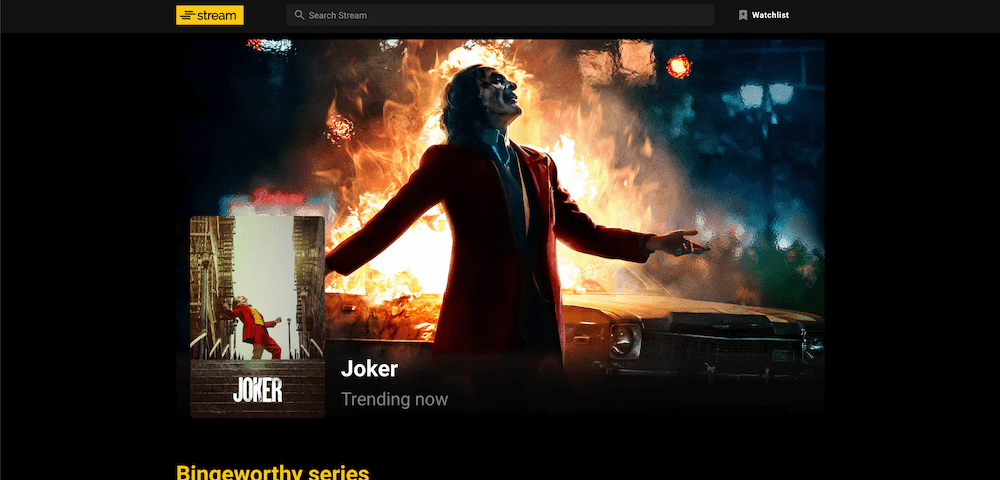
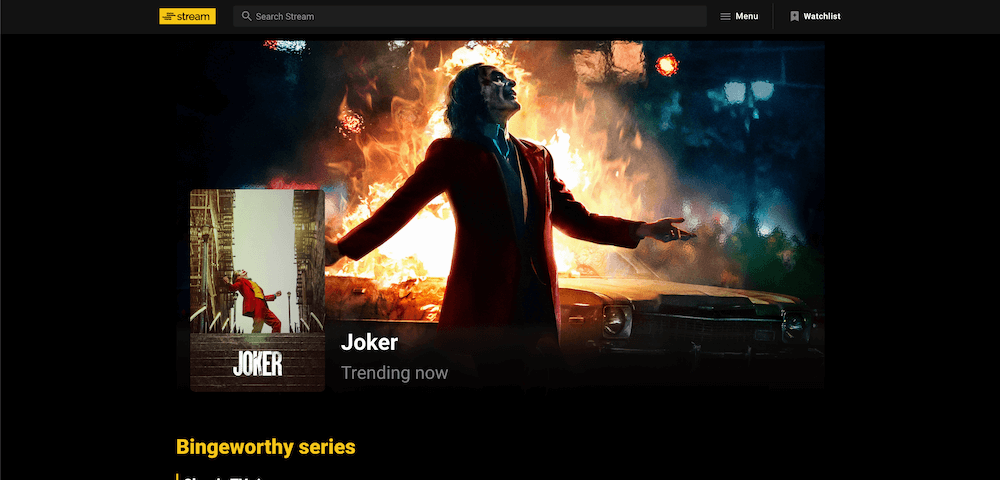
Minor styling changes and updating screenshots

Changed region(s): [[0.155, 0.0, 0.837, 0.875], [0.155, 0.9062, 0.372, 1.0], [0.713, 0.0, 0.837, 0.0625]]

diff --git a/public/index.html b/public/index.html
@@ -7,6 +7,7 @@
     <link rel="icon" href="./favicon.ico">
     <title>Nicholas Roy - Portfolio</title>
     <link rel="stylesheet" href="https://fonts.googleapis.com/css?family=Roboto:100,300,400,500,700,900">
+    <link href="https://fonts.googleapis.com/css2?family=Poppins:ital,wght@0,100;0,200;0,300;0,400;0,500;0,600;0,700;0,800;0,900;1,100;1,200;1,300;1,400;1,500;1,600;1,700;1,800;1,900&family=Roboto:ital,wght@0,100;0,300;0,400;0,500;0,700;0,900;1,100;1,300;1,400;1,500;1,700;1,900&display=swap" rel="stylesheet">
     <link rel="stylesheet" href="https://cdn.jsdelivr.net/npm/@mdi/font@latest/css/materialdesignicons.min.css">
   </head>
   <body>

diff --git a/src/components/frontend/FrontendProjects.vue b/src/components/frontend/FrontendProjects.vue
@@ -156,8 +156,8 @@ export default {
         },
         mainImage: "StreamHomepageScreenshot.png",
         screenshots: [
-          "StreamRecentViewedScreenshot.png",
-          "StreamTVScreenshot.png"
+          "StreamTVScreenshot.png",
+          "StreamTVScreenshotInfo.png"
         ]
       },
       coinsumption: {

diff --git a/src/App.vue b/src/App.vue
@@ -1,5 +1,5 @@
 <template>
-  <v-app>
+  <v-app id="app">
     <Homepage id="homepage" />
     <Navbar />
     <v-content class="pt-0">
@@ -36,6 +36,9 @@ export default {
 </script>
 
 <style>
+#app {
+  font-family: 'Poppins', sans-serif;
+}
 .heading {
   font-family: raleway-bold, sans-serif;
   font-size: 30pt;

diff --git a/src/components/Homepage.vue b/src/components/Homepage.vue
@@ -121,7 +121,6 @@ export default {
   width: 100%;
   justify-content: center;
   align-items: center;
-  font-family: raleway, sans-serif;
 }
 
 .title-container {
